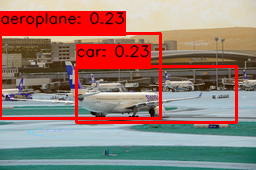
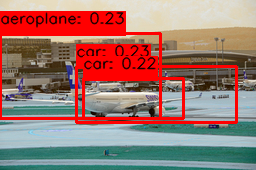
Change the thresholds

Changed region(s): [[0.3125, 0.3235, 0.75, 0.7059]]

diff --git a/t_eval_model.py b/t_eval_model.py
@@ -61,8 +61,8 @@ CLASS_NAMES = {
 }
 
 
-THRESHOLD = 0.2  # Threshold for the confidence score
-IOU_THRESHOLD = 0.25
+THRESHOLD = 0.18  # Threshold for the confidence score
+IOU_THRESHOLD = 0.5
 
 
 def save_output_data(outputs, name=""):
